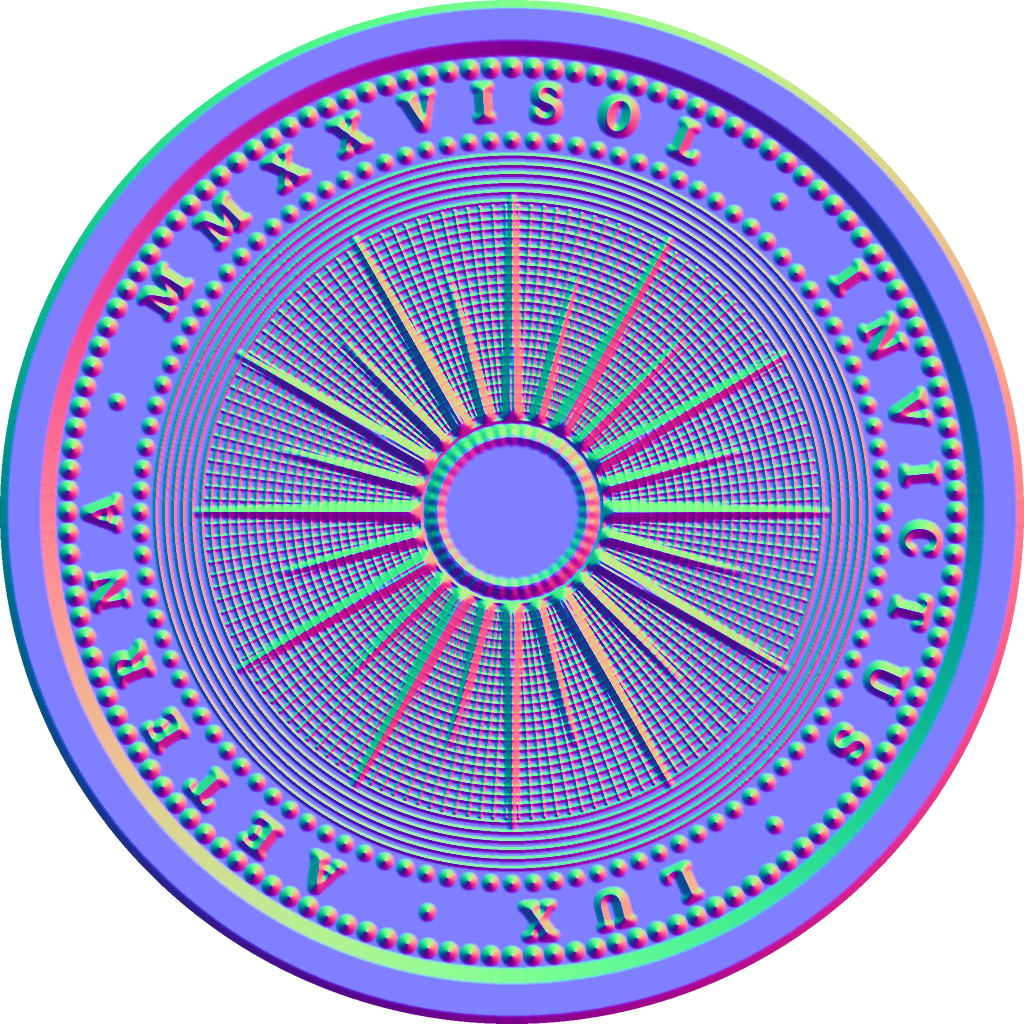
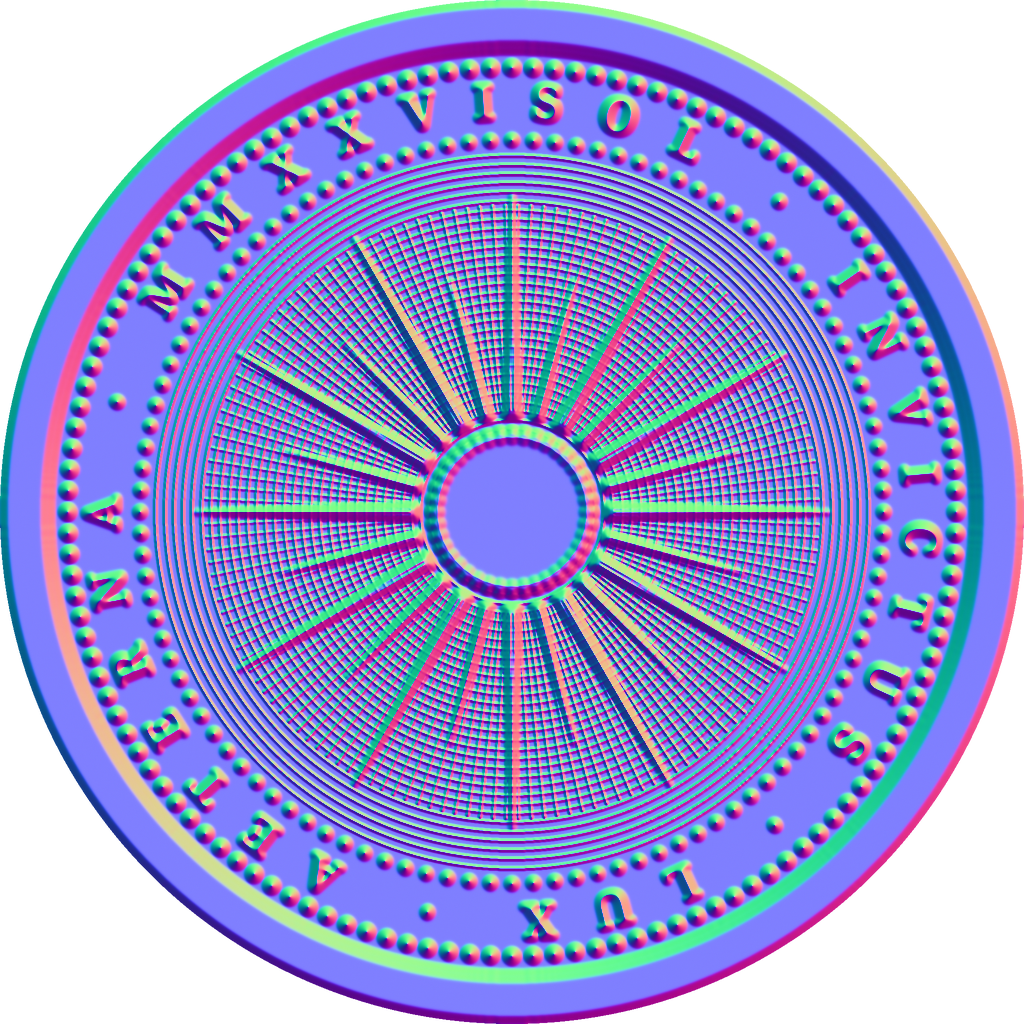
P04 浮雕高光去台阶：法线图整条链路改用小数，写图时加噪点
- 根因：高度图在缩小、模糊时都是 8 位整数，缓坡上相邻两点高度要么相同要么差 1 级，
  求出的坡度只有几种取值，光扫过时高光一格一格地跳（等高线）
- normal_map：高度图转小数后再缩小（_to_float）、频域高斯模糊（_gauss_blur_float，
  边缘镜像延拓）；写 8 位时加三角分布噪点并减 0.5 对齐原平均值
- 重新生成 sun/moon_silver_normal.png；彩色贴图逐像素核对未变；
  低角度光照对比：月面陨石坑、月牙边缘的锯齿状明暗变为平滑过渡

作者真机验收通过。

Claude-Session: https://claude.ai/code/session_01VdtNMW7gBPoCtHByyRCNsX

diff --git a/scripts/make_assets.py b/scripts/make_assets.py
@@ -344,11 +344,13 @@ def normal_map(major: Image.Image, fine: Image.Image) -> Image.Image:
 
     这是把贴图从"印花"变成"浮雕"最便宜的一步，不用加一个三角形。
     """
-    major = major.resize((SIZE, SIZE), Image.LANCZOS)
-    fine = fine.resize((SIZE, SIZE), Image.LANCZOS)
-
-    hm = np.array(major.filter(ImageFilter.GaussianBlur(2.2)), dtype=np.float32) / 255
-    hf = np.array(fine.filter(ImageFilter.GaussianBlur(0.9)), dtype=np.float32) / 255
+    # ★ P04：整条链路改成小数运算，最后写图时再加噪点。★
+    #   原来高度图在缩小、模糊时都是 8 位整数（0~255），坡度很缓的地方，
+    #   相邻两点的高度要么一样、要么差 1 级——求出来的坡度就只有几种取值，
+    #   光一扫过，高光一格一格地跳，像地图上的等高线。
+    #   改成小数之后坡度是连续的，写图时再用噪点把最后那次取整打散。
+    hm = _gauss_blur_float(_to_float(major), 2.2)
+    hf = _gauss_blur_float(_to_float(fine), 0.9)
     height = hm + hf * 0.22                     # 细纹只占一点点起伏
 
     gy, gx = np.gradient(height)
@@ -358,9 +360,32 @@ def normal_map(major: Image.Image, fine: Image.Image) -> Image.Image:
     nx, ny, nz = nx / norm, ny / norm, nz / norm
 
     rgb = np.stack([nx, ny, nz], axis=-1) * 0.5 + 0.5
-    img = Image.fromarray((rgb * 255).astype(np.uint8), "RGB").convert("RGBA")
+    # 写进 8 位前掺一点三角分布的噪点（±1 级内），再取整。
+    # 减 0.5 是为了和原来"直接截断"的平均值对齐，整体朝向不偏。
+    rng = np.random.default_rng(20261015)
+    noise = rng.random(rgb.shape) - rng.random(rgb.shape)
+    out = np.clip(np.rint(rgb * 255 - 0.5 + noise), 0, 255).astype(np.uint8)
+    img = Image.fromarray(out, "RGB").convert("RGBA")
     img.putalpha(circular_alpha())
     return img
+
+
+def _to_float(layer: Image.Image) -> np.ndarray:
+    """8 位的图层 → 缩到成品尺寸的小数高度（0~1），缩小时不再取整。"""
+    f = Image.fromarray(np.array(layer, dtype=np.float32) / 255, "F")
+    return np.array(f.resize((SIZE, SIZE), Image.LANCZOS), dtype=np.float32)
+
+
+def _gauss_blur_float(a: np.ndarray, sigma: float) -> np.ndarray:
+    """小数图的高斯模糊（频域做，边缘镜像延拓，不会从对边串过来）。"""
+    pad = int(sigma * 4) + 2
+    p = np.pad(a, pad, mode="reflect")
+    h, w = p.shape
+    fy = np.fft.fftfreq(h)[:, None]
+    fx = np.fft.fftfreq(w)[None, :]
+    g = np.exp(-2 * (np.pi * sigma) ** 2 * (fx ** 2 + fy ** 2))
+    out = np.real(np.fft.ifft2(np.fft.fft2(p) * g))
+    return out[pad:-pad, pad:-pad].astype(np.float32)
 
 
 def base_silver() -> np.ndarray:
